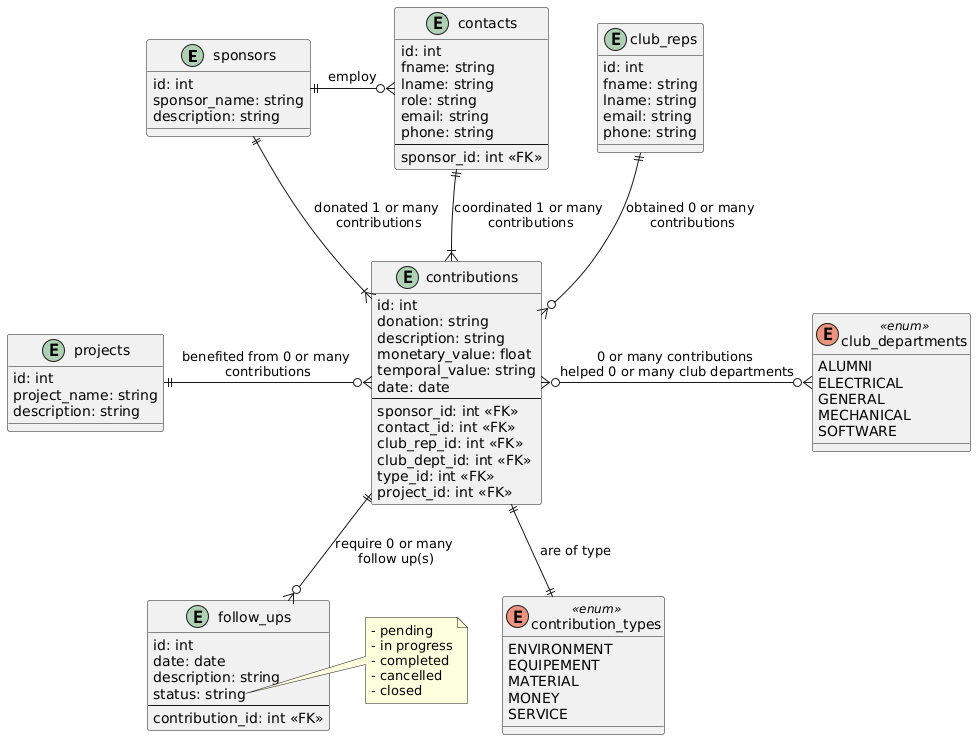
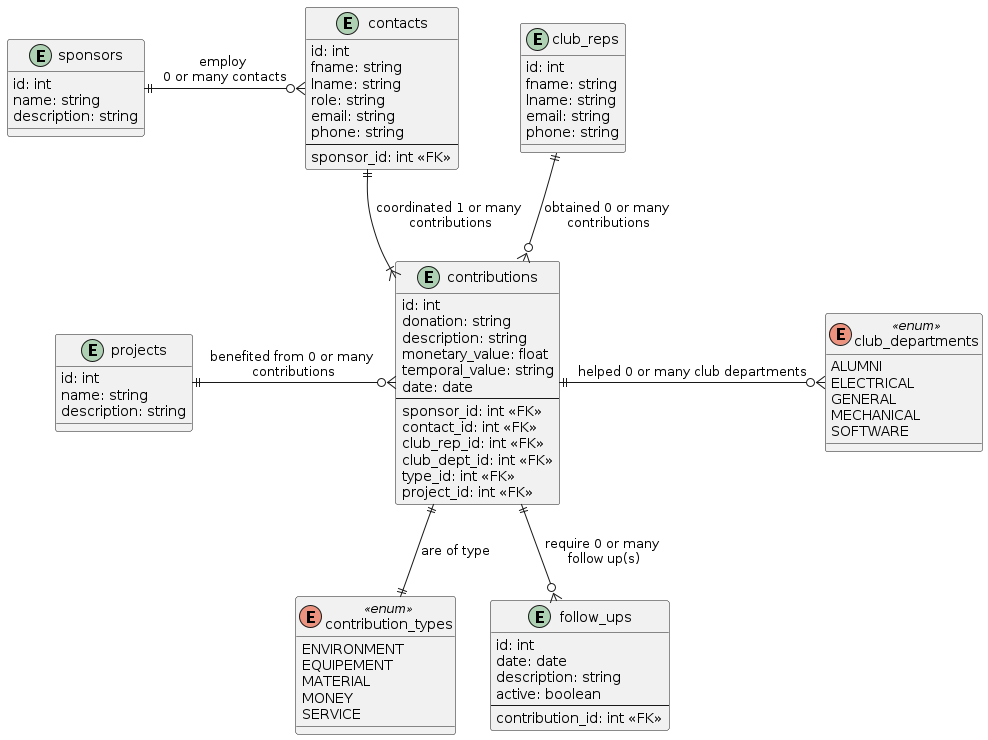
diagrams and partial description

Changed region(s): [[0.0, 0.0, 0.9836, 0.9946], [0.4303, 0.9635, 0.4611, 0.9946]]

diff --git a/README.md b/README.md
@@ -5,7 +5,15 @@ This project, as part of a deliverable for the masters course MTI825 at École d
 - [Overview](#overview)
   - [Backend tools](#backend-tools)
   - [Tools](#tools)
-  - [Environment variables](#environment-variables)
+- [Using the app](#using-the-app)
+  - [Prequisites](#prerequisites)
+  - [Developer mode](#developer-mode)
+    - [Additional prerequisites](#additional-prerequisites)
+    - [Setup instructions](#setup-instructions-1)
+    - [Useful commands](#useful-commands)
+  - [Stable mode](#stable-mode)
+    - [Setup instructions](#setup-instructions-2)
+    - [Teardown instructions](#teardown-instructions)
 - [Contextual information for the project](#context)
   - [The assignment](#assignment)
   - [The client : SONIA](#client)
@@ -161,3 +169,20 @@ All in all, _Extra Processing_ was identified as the main waste at the heart of 
 To help mitigate the _Extra Processing_ waste, a prototype was devised to tackle the issue at its base. The idea is to standardize the process for recording a contribution and contact information for a sponsor, all while facilitating the information research. Making a tool that becomes the single source of information for SONIA would allow the club reps to prevent having to go through extra steps of checking through many tools and people, with the potential outcome of not finding the desired information.
 
 And so, the following solution was created : a simple Spring Boot API that allows its users to record information in a PostgreSQL database. Considering that this is a prototype, there is no frontend app, nor any rigorous testing nor complete functionalities. The basics for recording information was prioritized, with the idea that the scientific club would take the effort in tailoring the solution as they need to.
+
+## Solution architecture
+### Entity relationship diagram
+![alt text](./docs/diagrams/png/erd.png)
+As indicated by the diagram, **contributions are at the heart of the system**, representing donations made by sponsor through tehir contacts. The structure makes it easier to track each contribution back to its source - both the sponsor organization and the individual contact involved.
+
+Contributions also help progress the scientific club's projects and are obtained by club reps, allowing them to be searched through them.
+
+Additionally, the system simplified the process of tracking follow-ups after a contribution is made ensuring that the club can uphold its commiments and maintain their relationships with the sponsors.
+
+
+### High level class/package diagram
+![alt text](./docs/diagrams/png/package-class.png)
+
+
+### High level sequence diagram
+![alt text](./docs/diagrams/png/general%20dataflow.png)
